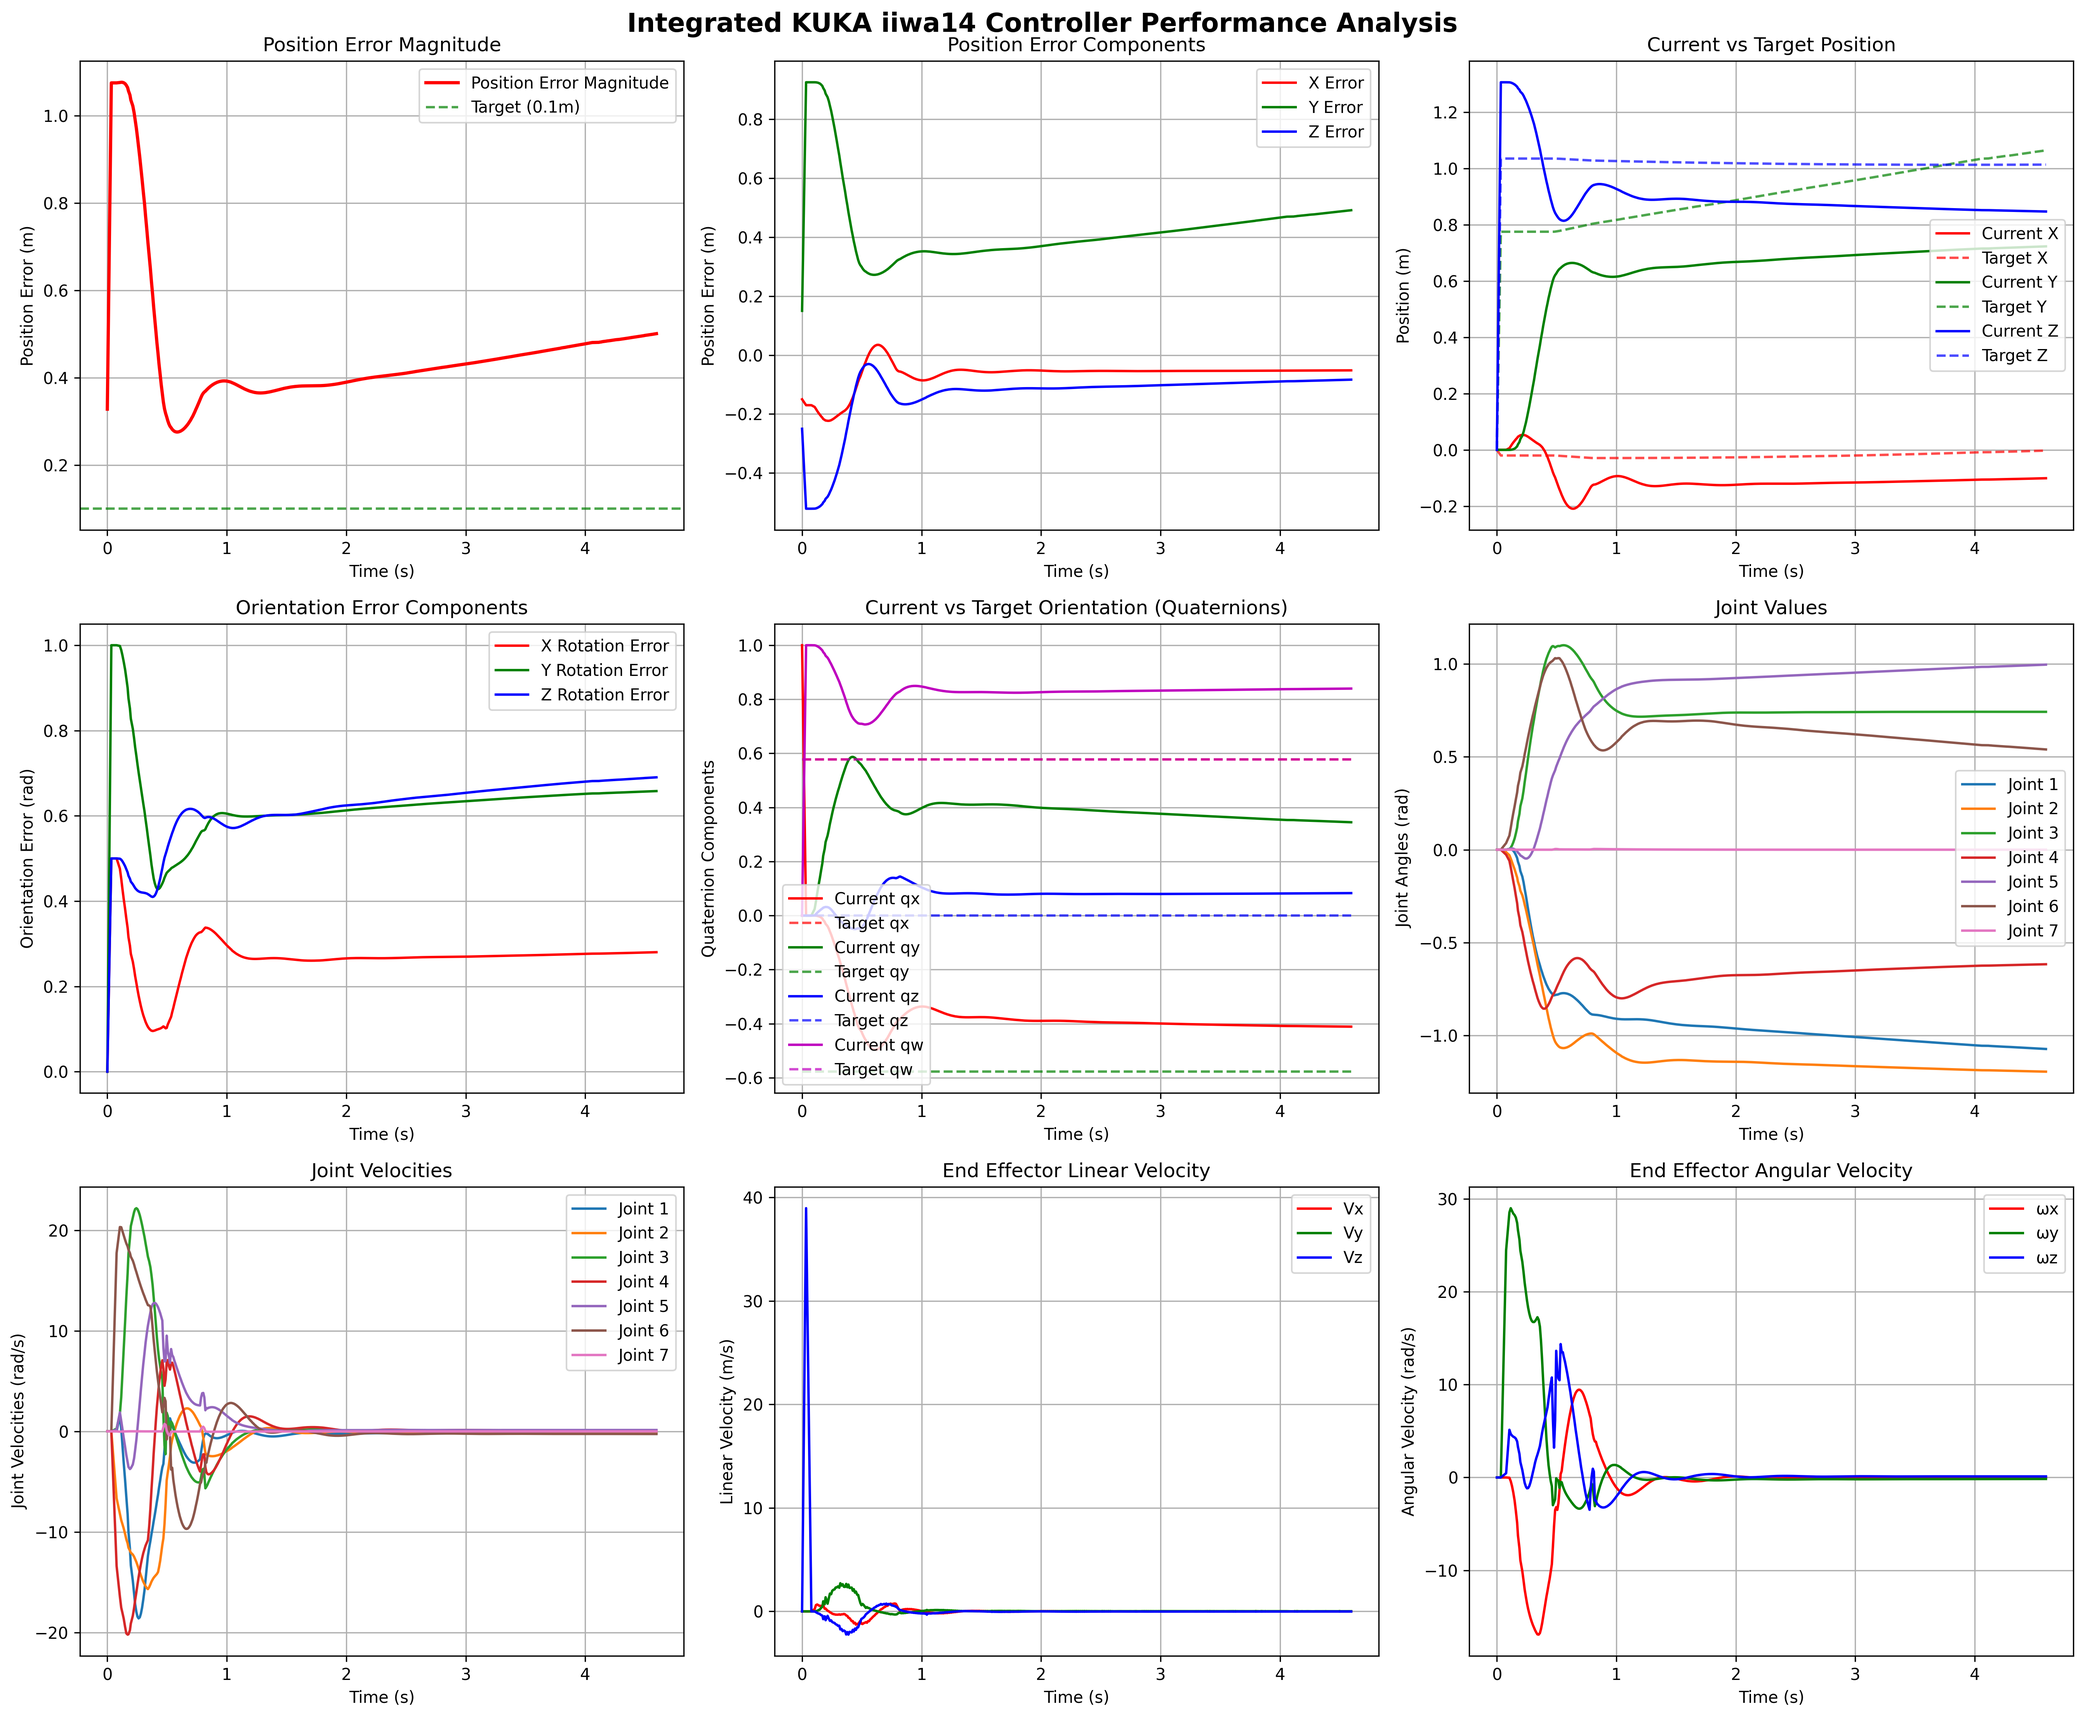
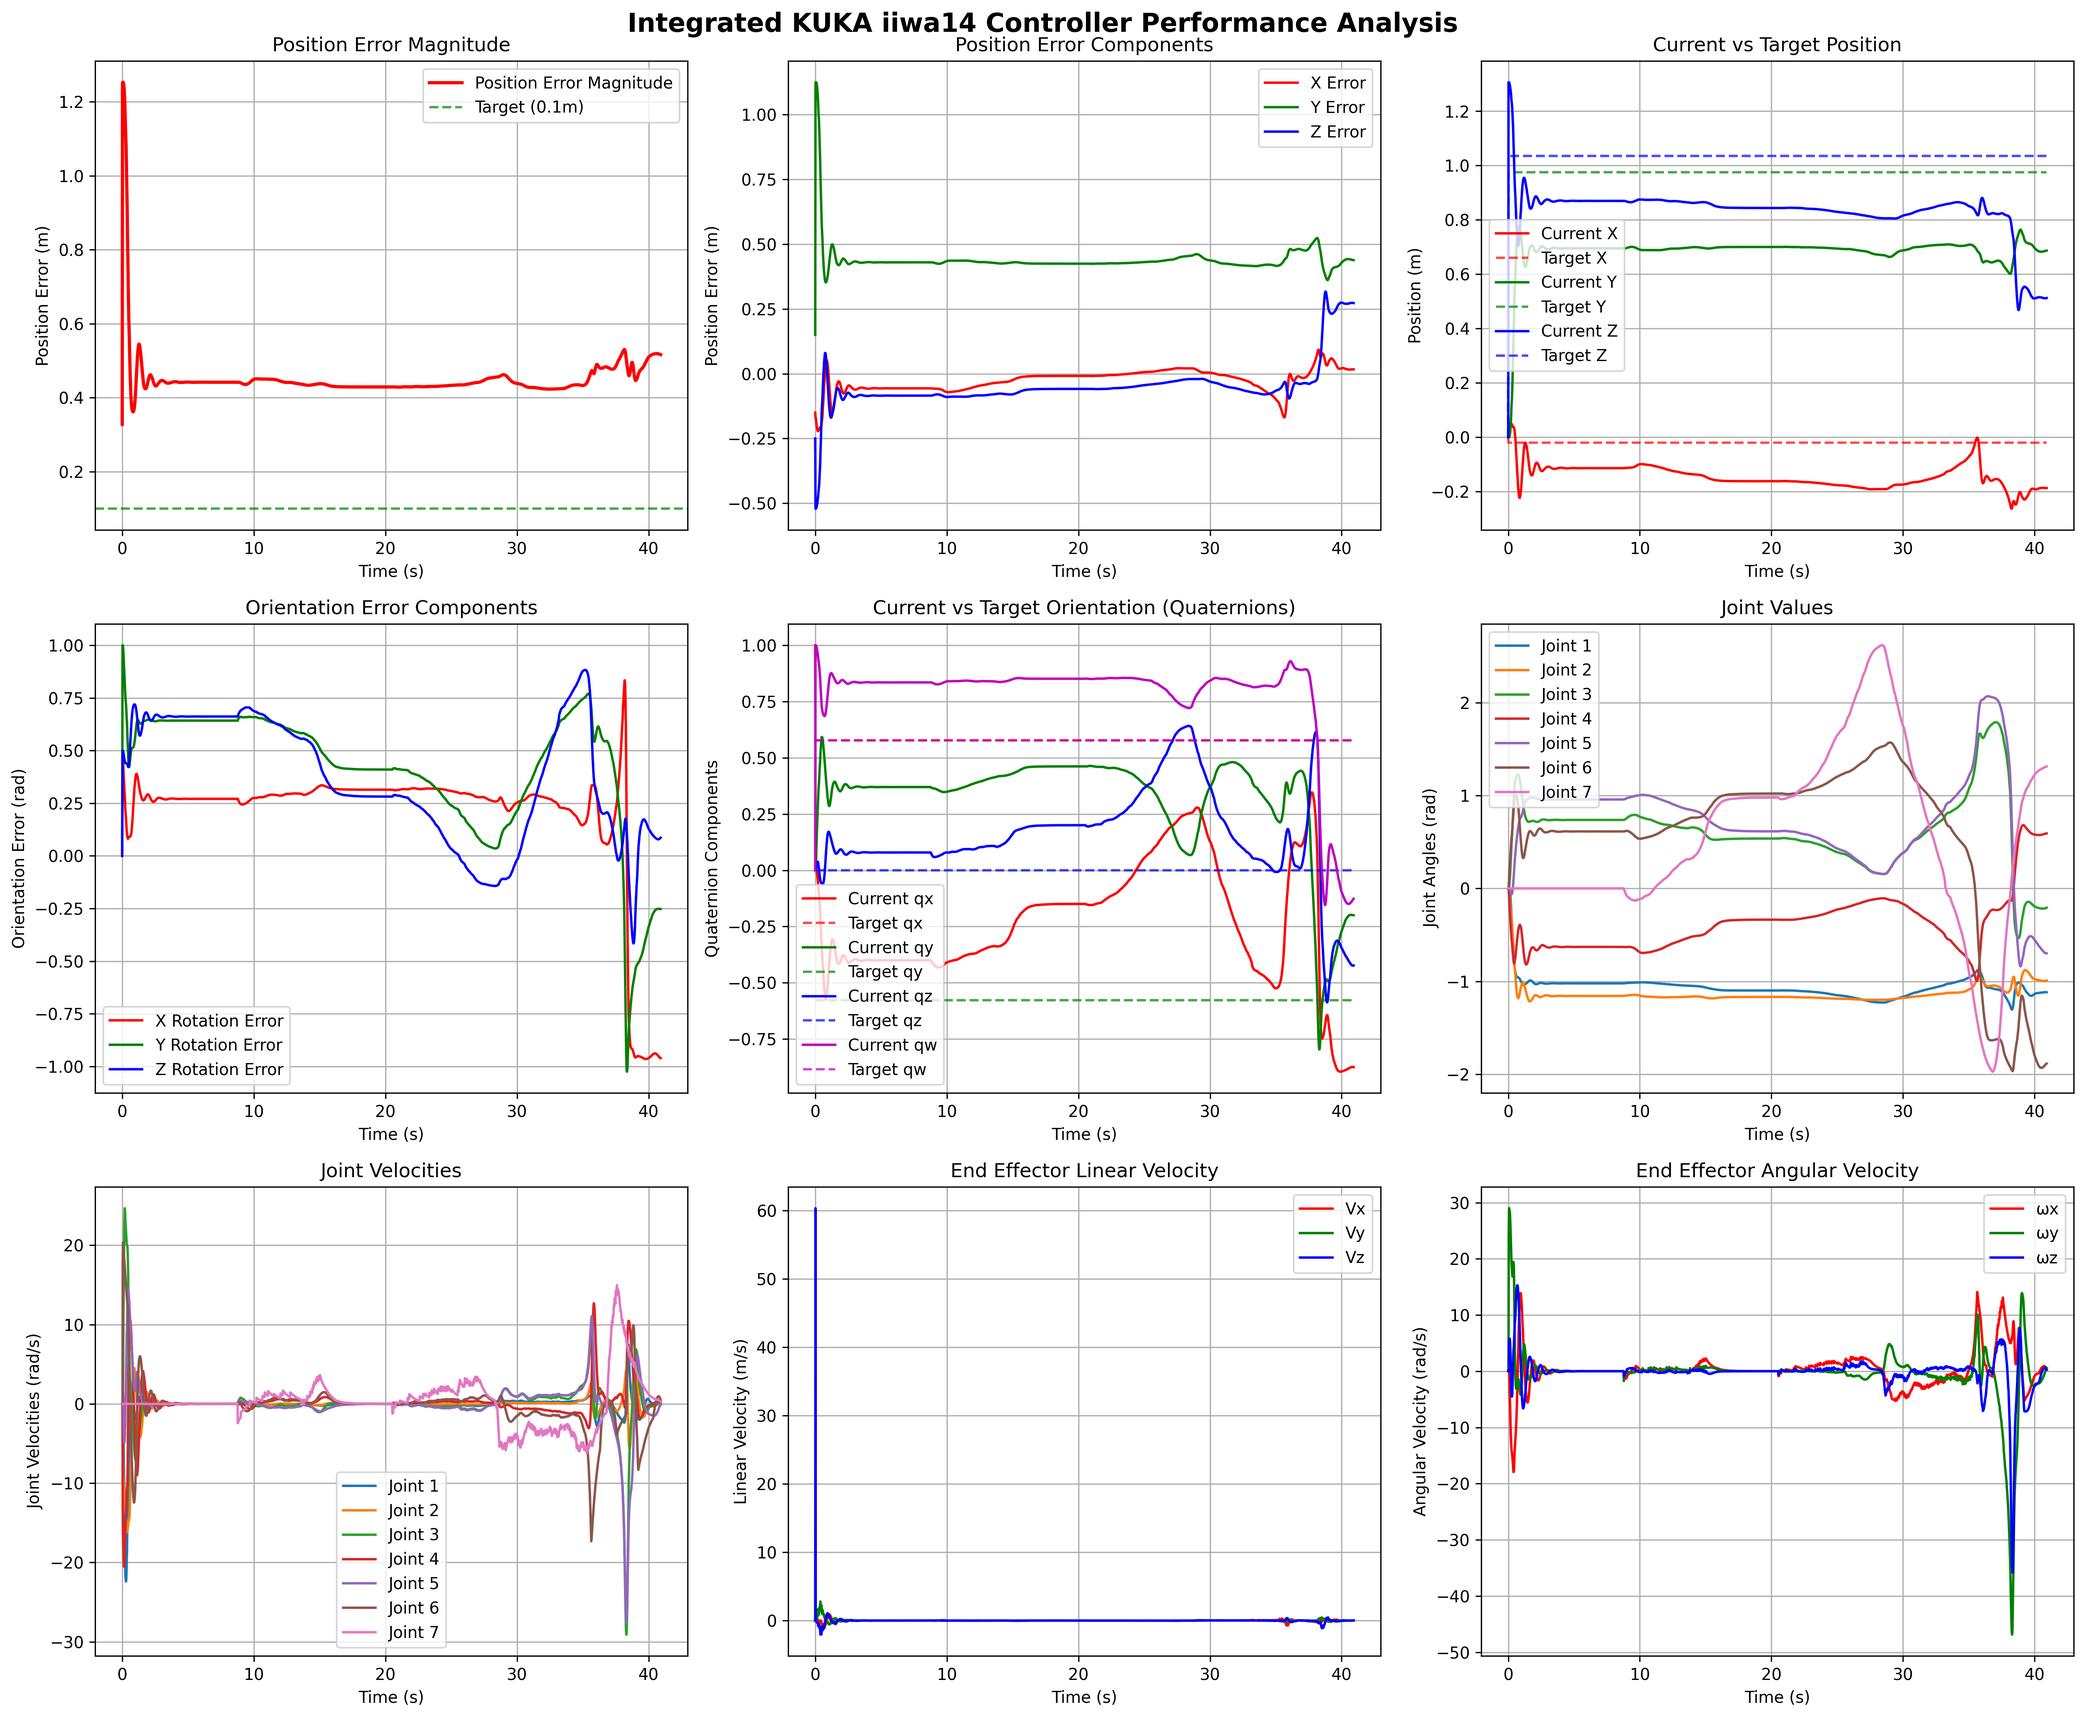
Initial movement working

diff --git a/Project1/controller.py b/Project1/controller.py
@@ -222,11 +222,11 @@ class PositionController(BaseController):
         # Ensure data.ctrl has appropriate length
         n_ctrl = len(self.data.ctrl)
         manual_id = getattr(self, 'manual_actuator_id', None)
-        
+        print(f"Manual actuator ID in apply_control_vector: {manual_id}")
         # Apply command vector (skip manual actuator if it exists)
         for i, val in enumerate(command_vector):
             if i < n_ctrl:
-                # Skip writing to the manual actuator index
+                # Skip writing to the manual actuator indexs
                 if manual_id is not None and i == manual_id:
                     continue
                 self.data.ctrl[i] = float(val)
@@ -235,6 +235,7 @@ class PositionController(BaseController):
         for idx in range(len(command_vector), n_ctrl):
             if manual_id is not None and idx == manual_id:
                 # Preserve manual actuator value set by viewer slider
+                #self.data.ctrl[8] = 2.0
                 continue
             self.data.ctrl[idx] = 0.0
 
@@ -335,6 +336,7 @@ class TorqueBalancingController(BaseController):
         
         # Get current control/torque in 6th axis
         tau_6 = self.data.ctrl[5] if len(self.data.ctrl) > 5 else 0.0
+        print(f"tau_6: {tau_6}")
         
         # The projection of the 6th axis moment to the base is given by
         # how the 6th joint's angular velocity affects the base moment
@@ -342,6 +344,7 @@ class TorqueBalancingController(BaseController):
         
         # Extract the column of J_rot that corresponds to axis 6
         j6_rot = J_rot[:, 5]  # Column 5 (0-indexed) corresponds to joint 6
+        print(f"j6_rot: {j6_rot}")
         
         # The projected moment is the magnitude of this Jacobian column scaled by tau_6
         projected_moment = np.linalg.norm(j6_rot) * np.abs(tau_6)
@@ -365,10 +368,12 @@ class TorqueBalancingController(BaseController):
             cost_gradient: Gradient with respect to joint velocities
         """
         # Get 7th axis torque
-        tau_7 = self.data.ctrl[6] if len(self.data.ctrl) > 6 else 0.0
+        tau_7 = self.data.ctrl[8] if len(self.data.ctrl) > 6 else 0.0
+        #print(f"tau_7: {tau_7}")
         
         # Get projected moment from 6th axis
         projected_moment, j6_rot, tau_6 = self.compute_projected_moment_to_base()
+
         
         # Potential field cost: 1/2 * (tau_7 - projected_moment)^2
         moment_error = tau_7 - projected_moment
@@ -546,9 +551,20 @@ class TorqueBalancingController(BaseController):
         if hasattr(self, 'apply_control_vector'):
             self.apply_control_vector(final_joint_velocities)
         else:
-            self.data.ctrl[:len(final_joint_velocities)] = final_joint_velocities
-            if self.model.nu > len(final_joint_velocities):
-                self.data.ctrl[len(final_joint_velocities):] = 0.0
+            # Fallback: manually apply control while protecting manual actuator
+            manual_id = getattr(self, 'manual_actuator_id', None)
+            manual_id = 6
+            for i, val in enumerate(final_joint_velocities):
+                if i < len(self.data.ctrl):
+                    if manual_id is not None and i == manual_id:
+                        continue  # Skip manual actuator
+                    self.data.ctrl[i] = float(val)
+            # Zero remaining control entries (except manual actuator)
+            for idx in range(len(final_joint_velocities), len(self.data.ctrl)):
+                if manual_id is not None and idx == manual_id:
+                    continue
+                #print(f"Zeroing ctrl at index {idx}")
+                self.data.ctrl[idx] = 0.0
         
         # Store target orientation
         self.current_target_orientation = target_orient_mat

diff --git a/Project1/integrated_simulation.py b/Project1/integrated_simulation.py
@@ -366,7 +366,7 @@ class IntegratedZeroGravitySimulation:
         box_door_assembly = '''
     
     <!-- Box/Door Assembly (floating in zero gravity, positioned closer to robot) -->
-    <body name="box_door_assembly" pos="0.0 0.7 1.2" quat="0.0 1.0 1.0 0">
+    <body name="box_door_assembly" pos="0.0 0.9 1.2" quat="0.0 1.0 1.0 0">
       <freejoint name="assembly_freejoint"/>
       
       <!-- Base Box -->

diff --git a/GIT_BRANCH_SNAPSHOT.md b/GIT_BRANCH_SNAPSHOT.md
@@ -1,0 +1,169 @@
+# Git Branch Snapshot Summary
+
+## Branches Created/Updated
+
+### 1. `redundantManipulator` Branch ✅
+**Commit**: `1d5ed26`  
+**Status**: Pushed to remote `origin/redundantManipulator`  
+**Description**: Current state with all latest improvements
+
+#### What's included:
+- ✅ **Refactored Controller Architecture**
+  - Extracted controller logic into `controller.py`
+  - Implemented `BaseController`, `PositionController`, `TorqueBalancingController`
+  - Added `ControllerFactory` for flexible controller instantiation
+
+- ✅ **Joint 7 Manual Control System**
+  - Added `manual_joint7` motor actuator in generated XML
+  - Controller detects and preserves manual actuator (ctrl index 8)
+  - Joint 7 command explicitly zeroed in both controllers
+  - Users can now drag the `manual_joint7` slider in MuJoCo viewer to apply torque
+
+- ✅ **Moment-Based Torque Balancing Controller**
+  - Implements cost function: `0.5 * (tau_7 - projected_moment_from_tau_6)^2`
+  - Computes projected moment to base using rotational Jacobian
+  - Null-space torque correction to minimize base moments
+  - Fully integrated with position control task
+
+- ✅ **Plotting Fixes**
+  - Moved plotting outside simulation loop
+  - Plots generate AFTER viewer closes (no interference)
+  - Robust array handling with `safe_stack` helper
+  - Comprehensive 9-subplot performance analysis
+
+- ✅ **Documentation**
+  - `MANUAL_JOINT7_USAGE.md` - User guide for manual control
+  - `TORQUE_BALANCING_TECHNICAL.md` - Technical details
+  - `CONTROLLER_GUIDE.md` - Architecture overview
+  - Various other technical documents
+
+- ✅ **Test Scripts**
+  - `test_joint7_control.py` - Validates joint 7 manual control setup
+  - `check_actuators.py` - Lists model actuators
+
+#### Key Files Modified:
+```
+Project1/
+  ├── controller.py (NEW)
+  ├── integrated_simulation.py (MODIFIED)
+  ├── integrated_model.xml (MODIFIED)
+  └── [multiple documentation files]
+```
+
+---
+
+### 2. `yorientation` Branch ✅
+**Commit**: `e0bec5b`  
+**Status**: Pushed to remote `origin/yorientation`  
+**Description**: State before any of my changes
+
+#### What's included:
+- Original codebase from the repository
+- Improved orientation controller (v=k o + k_v w)
+- Added continuity checker
+- No manual joint control system
+- Original plotting approach
+
+#### Purpose:
+Reference branch showing the starting point before the refactoring and improvements.
+
+---
+
+## Key Differences Between Branches
+
+| Feature | `yorientation` | `redundantManipulator` |
+|---------|---|---|
+| Manual Joint 7 Control | ❌ | ✅ |
+| Moment-Based Torque Balancing | ❌ | ✅ |
+| Refactored Controller Architecture | ❌ | ✅ |
+| Plotting Outside Loop | ❌ | ✅ |
+| controller.py Module | ❌ | ✅ |
+| ControllerFactory | ❌ | ✅ |
+| Documentation | Minimal | Comprehensive |
+
+---
+
+## How to Use These Branches
+
+### Switch to `redundantManipulator` (Latest Improvements):
+```bash
+cd /home/user/Documents/NYU/SpaceRobotics/SpaceRobotics7863
+git checkout redundantManipulator
+cd Project1
+conda run -n space-robotics python integrated_simulation.py --controller torque_balancing
+```
+
+### Switch to `yorientation` (Original State):
+```bash
+cd /home/user/Documents/NYU/SpaceRobotics/SpaceRobotics7863
+git checkout yorientation
+cd Project1
+# Original code runs here
+```
+
+### View Differences:
+```bash
+git diff yorientation redundantManipulator -- Project1/integrated_simulation.py
+git diff yorientation redundantManipulator -- Project1/controller.py
+```
+
+---
+
+## Commit Details
+
+### Latest Commit (redundantManipulator):
+```
+Commit: 1d5ed26
+Author: [Your Name]
+Date: [Current Date]
+Message: Current state: joint 7 manual control + plotting fixes + moment-based torque balancing controller
+
+Changed 20 files with 4456 additions(+) and 211 deletions(-)
+```
+
+### Reference Commit (yorientation):
+```
+Commit: e0bec5b  
+Message: addedcontinuty checker
+```
+
+---
+
+## Next Steps
+
+1. **Verify Branches**:
+   ```bash
+   git branch -r | grep -E "redundantManipulator|yorientation"
+   ```
+
+2. **Create Pull Requests** (Optional):
+   - From `redundantManipulator` to `main` when ready to merge
+   - Keep `yorientation` as reference/backup
+
+3. **Continue Development**:
+   - Checkout `redundantManipulator` for ongoing work
+   - Use `yorientation` as reference if needed to rollback
+
+---
+
+## Files Summary
+
+### Created Files:
+- `controller.py` - Core controller implementations
+- `controller_examples.py` - Usage examples
+- `test_joint7_control.py` - Validation script
+- `check_actuators.py` - Actuator inspection
+- Multiple `.md` documentation files
+
+### Modified Files:
+- `integrated_simulation.py` - Refactored to use ControllerFactory
+- `integrated_model.xml` - Added manual_joint7 actuator
+
+### Generated Files:
+- `integrated_controller_performance_analysis.png` - Plots
+
+---
+
+## Status: ✅ ALL CHANGES SAVED SUCCESSFULLY
+
+Both branches have been created and pushed to the remote repository!

diff --git a/Project1/BRANCH_SAVE_COMPLETE.md b/Project1/BRANCH_SAVE_COMPLETE.md
@@ -1,0 +1,124 @@
+# ✅ Git Branch Save - COMPLETED
+
+## Summary
+
+Successfully saved all current changes to two git branches:
+
+### Branch 1: `redundantManipulator` (CURRENT STATE) ✅
+- **Commit Hash**: `1d5ed26`
+- **Status**: ✅ Pushed to remote
+- **Contains**: All latest improvements including:
+  - Joint 7 manual control system
+  - Moment-based torque balancing controller
+  - Refactored controller architecture (`controller.py`)
+  - Fixed plotting (generates after viewer closes)
+  - Complete documentation
+
+### Branch 2: `yorientation` (PREVIOUS STATE) ✅
+- **Commit Hash**: `e0bec5b`
+- **Status**: ✅ Pushed to remote
+- **Contains**: Original codebase before any of the recent changes
+- **Purpose**: Reference/backup point
+
+---
+
+## What Changed
+
+### In `redundantManipulator` vs `yorientation`:
+
+**New Files Created:**
+- ✅ `Project1/controller.py` - Main controller module
+- ✅ `Project1/controller_examples.py` - Usage examples
+- ✅ `Project1/test_joint7_control.py` - Validation tests
+- ✅ `Project1/check_actuators.py` - Actuator introspection
+- ✅ Multiple documentation files (QUICKSTART.md, CONTROLLER_GUIDE.md, etc.)
+
+**Files Modified:**
+- ✅ `Project1/integrated_simulation.py` - Refactored for controller factory + plotting fixes
+- ✅ `Project1/integrated_model.xml` - Added manual_joint7 actuator
+
+**Total Changes:**
+- 20 files changed
+- 4456 additions(+)
+- 211 deletions(-)
+
+---
+
+## How to Access
+
+### View the branches on GitHub:
+```
+https://github.com/aojedao/SpaceRobotics7863/tree/redundantManipulator
+https://github.com/aojedao/SpaceRobotics7863/tree/yorientation
+```
+
+### Switch between branches locally:
+```bash
+# Switch to latest improvements
+git checkout redundantManipulator
+
+# Switch to original state
+git checkout yorientation
+```
+
+### Compare the branches:
+```bash
+# See all differences
+git diff yorientation redundantManipulator
+
+# See specific file differences
+git diff yorientation redundantManipulator -- Project1/integrated_simulation.py
+git diff yorientation redundantManipulator -- Project1/controller.py
+```
+
+---
+
+## Key Features in `redundantManipulator`
+
+✅ **Manual Joint 7 Control**
+- Actuator exposed in MuJoCo viewer as slider
+- Controller preserves manual input (doesn't overwrite)
+- Joint 7 velocity command explicitly zeroed
+
+✅ **Moment-Based Torque Balancing**
+- Advanced controller minimizes base moments
+- Null-space correction based on torque difference
+- Fully documented with examples
+
+✅ **Refactored Architecture**
+- Clean separation of concerns
+- ControllerFactory for flexible controller selection
+- Easy to add new controller types
+
+✅ **Fixed Plotting**
+- No longer blocks simulation
+- Generates after viewer closes
+- Comprehensive 9-subplot analysis
+
+✅ **Comprehensive Documentation**
+- Technical guides
+- Usage examples
+- API documentation
+
+---
+
+## Backup Information
+
+| Item | Value |
+|------|-------|
+| Repository | SpaceRobotics7863 |
+| Owner | aojedao |
+| Latest Branch | redundantManipulator |
+| Reference Branch | yorientation |
+| Remote | origin (GitHub) |
+| Status | Both branches synced to remote |
+
+---
+
+## ✅ ALL SAVES COMPLETE
+
+Your work has been safely backed up to:
+1. ✅ GitHub `redundantManipulator` branch (with all improvements)
+2. ✅ GitHub `yorientation` branch (reference/original state)
+
+You can now safely continue development on either branch!
